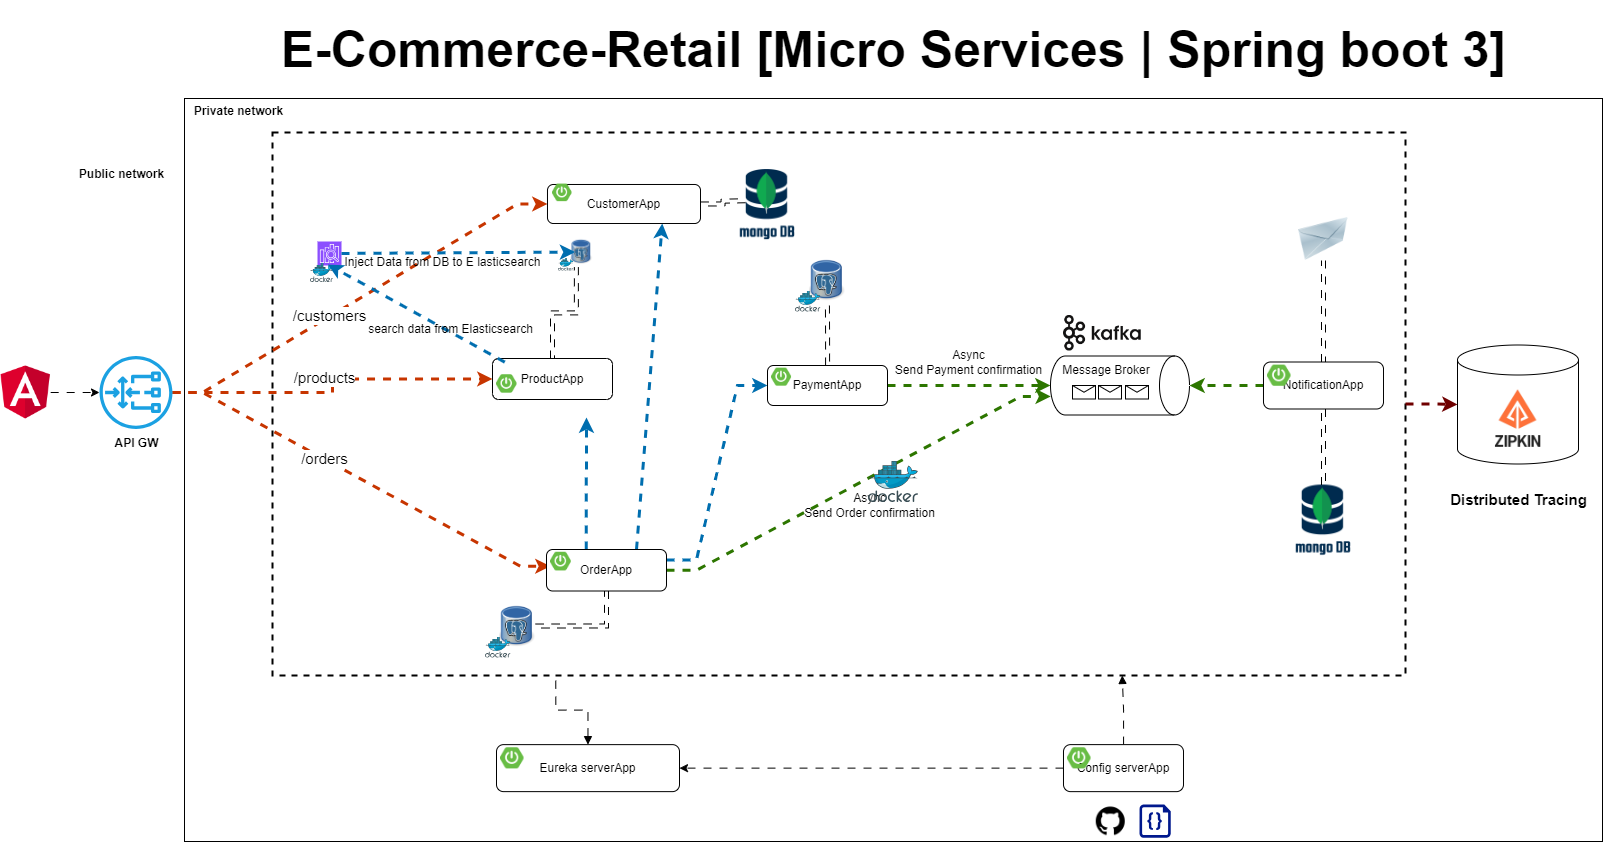
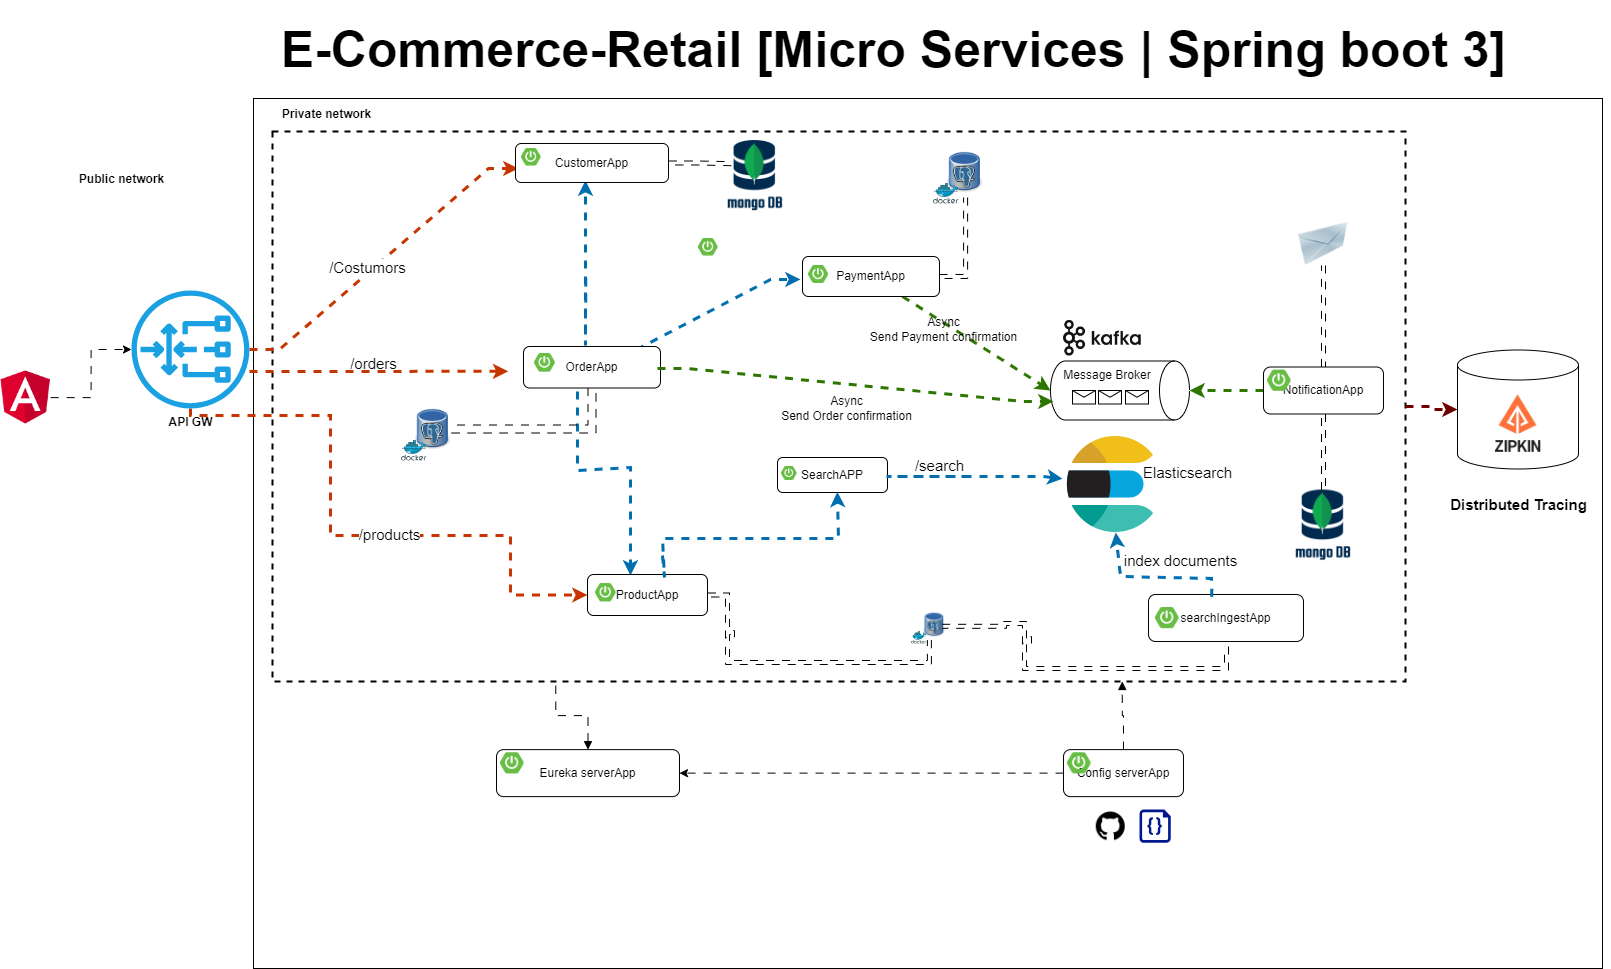
add elastic to diagramm

diff --git a/README.md b/README.md
@@ -16,6 +16,7 @@ such as payment terms, preferred payment method, and wholesale discounts, every 
 
 B2C Checkout allows:
 <ul>
+<li>search for products</li>
 <li>The logistics of its products (inventory management, deliveries, delivery tracking)</li>
 <li>Marketing (up-selling, cross-selling, abandoned cart recovery)</li>
 <li>Online payment</li>
@@ -41,6 +42,10 @@ The backend is based on Java using SpringBoot:
 <li>Logstash to manage events and logs</li>
 <li>Kibana/Grafana/splunk/Dynatrace to visualize data and implement alerting</li>
 <li>Prometheus for monitoring system and collecting metrics</li>
+<li>Discovery Server with Eureka</li>
+<li>keycloak to handle authentication and authorization</li>
+<li>use the RestTemplate and ClientFeign to consume an API using all the main HTTP Verbs.</li>
+<li>SpringBatch to ingest data into Elasticsearch index</li> 
 </ul>
 <h3>Frontend</h3>
 The frontend is built with Angular and uses Angular Material with utility classes from Bootstrap.
